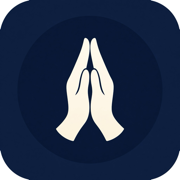
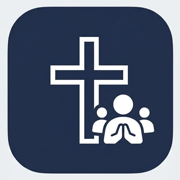
Split AppIcons: member cross+people, operator cross+gear
Replace ios-member and web member icons with the new congregation design,
apply the gear operator icon to Remote iOS and Electron, and bump build
numbers for TestFlight re-upload.

diff --git a/전체구조안내서.md b/전체구조안내서.md
@@ -29,8 +29,8 @@
 | Firebase 규칙 조각 | `firebase/` | RTDB `church` 규칙만 보관·합치기 |
 | 배포/유틸 스크립트 | `scripts/` | Surge 정적 export 보조, 규칙 병합 |
 | 데스크톱(Electron) | `desktop/` (+ `lib/lan-link.ts` 등) | 조작용·송출용 앱, LAN 직접 송출 |
-| iOS Remote(Capacitor) | `ios/`, `capacitor.config.ts` | 표시 이름 **은혜로운 예배 Remote**. iPhone·iPad **슬라이드 넘기기만**. 송출·주보·사람·라이브러리는 데스크톱 |
-| iOS 성도(Capacitor) | `ios-member/`, `capacitor.member.config.ts` | 표시 이름 **은혜로운 예배 성도**. 번들 `org.eunhye.worship.member`. ASC `6824340939`. AppIcon=기도하는 손. 웹 `/member` |
+| iOS Remote(Capacitor) | `ios/`, `capacitor.config.ts` | 표시 이름 **은혜로운 예배 Remote**. 번들 `org.eunhye.worship.operator`. AppIcon=십자가+톱니. iPhone·iPad **슬라이드 넘기기만**. 송출·주보·사람·라이브러리는 데스크톱 |
+| iOS 성도(Capacitor) | `ios-member/`, `capacitor.member.config.ts` | 표시 이름 **은혜로운 예배 성도**. 번들 `org.eunhye.worship.member`. ASC `6824340939`. AppIcon=십자가+기도하는 성도. 웹 `/member` |
 | 정적 산출물 | `out/` (gitignore) | `STATIC_EXPORT=1` 빌드 결과 (데스크톱·모바일 공용) |
 | 로컬 데이터(구형/테스트) | `data/` (gitignore) | 예전 파일 DB·테스트용. 운영 본선은 Firebase |
 | 패키징 결과 | `desktop-dist/` (gitignore) | Windows/Mac 설치·포터블 파일 |
@@ -468,7 +468,7 @@ npx electron . --mode=output --display=main
 3. `npm run member:mobile:ios:testflight` — ASC API 키는 env(`APP_STORE_CONNECT_*`)만. 팀 `ZJYZ656BL8`.
 4. ASC → TestFlight에서 빌드 처리 후 내부 테스트 그룹에 추가.
 
-AppIcon: `assets/app-icons/eunhye-member-praying-hands-1024.png` → `ios-member/.../AppIcon.appiconset/`.
+AppIcon: `assets/app-icons/eunhye-member-app-icon-1024.png`(십자가+기도하는 성도) → `ios-member/.../AppIcon.appiconset/`. 조작 Remote는 `eunhye-operator-app-icon-1024.png`(십자가+톱니) → `ios/.../AppIcon.appiconset/` + Electron `desktop/resources/icon.png`.
 
 ### 5.7 Firebase 규칙 반영 순서
 

diff --git a/docs/member-app.md b/docs/member-app.md
@@ -72,7 +72,7 @@ URL `?service=` 로 특정 예배를 고정할 수 있습니다.
 | ASC 앱 ID | `6824340939` (SKU `eunhye-worship-member`) |
 | 설정 | `capacitor.member.config.ts` (`ios.path = ios-member`) |
 | 프로젝트 | `ios-member/` (조작 `ios/` 와 분리) |
-| AppIcon | 기도하는 손 — `assets/app-icons/eunhye-member-praying-hands-1024.png` |
+| AppIcon | 십자가+기도하는 성도 — `assets/app-icons/eunhye-member-app-icon-1024.png` |
 | 안내 | `ios-member/README.md` |
 
 조작 앱과 **같은 `out/` 정적 파일**을 쓰되, 네이티브 `appId`로 셸을 구분합니다. 성도 셸은 로그인 후 항상 `/member`로 가며, `/community`·`/prayers` 도 허용합니다.

diff --git a/ios-member/README.md b/ios-member/README.md
@@ -10,7 +10,7 @@
 | SKU | `eunhye-worship-member` |
 | 설정 파일 | 저장소 루트 `capacitor.member.config.ts` (`ios.path = ios-member`) |
 | 첫 화면 | `/member` |
-| AppIcon | 기도하는 손 (`assets/app-icons/eunhye-member-praying-hands-1024.png`) |
+| AppIcon | 십자가+기도하는 성도 (`assets/app-icons/eunhye-member-app-icon-1024.png`) |
 
 ## 처음 한 번 / 웹 다시 넣기
 
